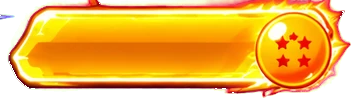
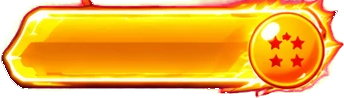
Main menu pieces: the row bar without the title's flames, the title's tail faded, menu_art.py kept with the port's tools

diff --git a/port/tools/menu_art.py b/port/tools/menu_art.py
@@ -1,0 +1,123 @@
+"""The main menu's new look (19 Nov 2026, the user's design made with an image AI:
+Super-Characters/menu-design-19Nov/design.webp and its pieces on magenta, pieces.webp 1774 x 887).
+Each piece is cut from the magenta sheet (the magenta made clear, the edges' magenta taken out of their colour); the
+dragon balls are made 1 to 7 stars from the sheet's lit and dim ball (its 4 stars painted over, new stars drawn).
+
+    menu_art.py <out folder>        writes mm2_*.png there and prints each size"""
+import math, os, sys
+import numpy as np
+from PIL import Image, ImageDraw, ImageFilter
+
+HERE = os.path.dirname(os.path.abspath(__file__))
+SHEET = os.path.join(HERE, "..", "menu-design-19Nov", "pieces.webp")
+OUT = sys.argv[1]
+os.makedirs(OUT, exist_ok=True)
+A = np.asarray(Image.open(SHEET).convert("RGB")).astype(float)
+MAG = np.array([255.0, 0.0, 255.0])
+
+
+def save(name, im):
+    im.save(os.path.join(OUT, name + ".png"))
+    print("%-18s %4d x %4d" % (name, im.width, im.height))
+
+
+def main_part(im):
+    """Only the piece the box's middle belongs to (a neighbour's edge or flames caught in the box left out)."""
+    from PIL import ImageDraw as D
+    m = im.getchannel("A").point(lambda v: 255 if v > 40 else 0)
+    D.floodfill(m, (m.width // 2, m.height // 2), 128)
+    keep = m.point(lambda v: 255 if v == 128 else 0).filter(ImageFilter.MaxFilter(5))
+    a = np.minimum(np.asarray(im.getchannel("A")), np.asarray(keep))
+    out = im.copy()
+    out.putalpha(Image.fromarray(a.astype(np.uint8)))
+    bb = out.getchannel("A").point(lambda v: 255 if v > 10 else 0).getbbox()
+    return out.crop(bb)
+
+
+def cut(box, pad=4):
+    x0, y0, x1, y1 = box
+    x0, y0, x1, y1 = max(0, x0 - pad), max(0, y0 - pad), min(A.shape[1], x1 + pad), min(A.shape[0], y1 + pad)
+    c = A[y0:y1, x0:x1]
+    dist = np.abs(c[..., 0] - 255) + c[..., 1] + np.abs(c[..., 2] - 255)
+    a = np.clip((dist - 70) / 150, 0, 1)
+    rgb = (c - (1 - a)[..., None] * MAG) / np.maximum(a, 0.05)[..., None]  # the magenta taken out of the edges
+    rgb = np.clip(rgb, 0, 255)
+    edge = np.asarray(Image.fromarray(((a < 0.95) * 255).astype(np.uint8)).filter(ImageFilter.MaxFilter(9))) > 0
+    tint = np.minimum(rgb[..., 0], rgb[..., 2]) - rgb[..., 1]  # (magenta: red and blue over green)
+    over = np.clip(tint - 18, 0, None) * edge
+    rgb[..., 0] -= over
+    rgb[..., 2] -= over
+    a = np.where(edge & (tint > 70) & (rgb.max(2) < 140), 0, a)  # (dark purple left of the magenta behind)
+    out = np.dstack([np.clip(rgb, 0, 255), a * 255]).astype(np.uint8)
+    im = Image.fromarray(out, "RGBA")
+    bb = im.getchannel("A").point(lambda v: 255 if v > 10 else 0).getbbox()
+    return im.crop(bb) if bb else im
+
+
+PIECES = {
+    "title": (2, 78, 628, 286), "bar": (642, 114, 962, 190), "bar_sel": (622, 192, 968, 290),
+    "up": (60, 318, 194, 404), "down": (284, 326, 418, 414), "desc": (6, 472, 534, 590), "frame": (536, 492, 776, 594),
+    "i_shenron": (784, 446, 958, 626), "i_book": (30, 638, 208, 796), "i_swords": (270, 638, 440, 798),
+    "i_globe": (508, 632, 684, 802), "i_vs": (744, 634, 954, 812), "i_wifi": (1004, 106, 1174, 244),
+    "i_data": (1220, 104, 1330, 238), "i_gear": (1384, 100, 1540, 254), "k_enter": (1578, 118, 1756, 232),
+    "k_esc": (1006, 338, 1168, 448), "k_x": (1214, 324, 1352, 462), "k_o": (1398, 324, 1536, 462), "cloud": (1570, 338, 1758, 458),
+}
+for name, box in PIECES.items():
+    im = cut(box)
+    if name == "bar":  # (the title's flames touch the blue bar on the sheet: its warm pixels are theirs)
+        px = np.asarray(im).astype(int)
+        warm = (px[..., 0] > px[..., 2] + 30) & (px[..., 0] > 110)
+        px[..., 3] = np.where(warm, 0, px[..., 3])
+        im = Image.fromarray(px.astype(np.uint8), "RGBA")
+    if name in ("bar", "bar_sel", "frame", "desc"):
+        im = main_part(im)
+    if name == "title":  # (its flames' tail, cut at the box's right edge, fades out instead)
+        px = np.asarray(im).astype(float)
+        ramp = np.clip((im.width - 1 - np.arange(im.width)) / 70.0, 0, 1)
+        px[..., 3] *= ramp[None, :]
+        im = Image.fromarray(px.astype(np.uint8), "RGBA")
+    save("mm2_" + name, im)
+
+# --- the seven dragon balls, lit and dim: the sheet's stars painted over, 1..7 stars drawn
+STARS = {1: [(0, 0)], 2: [(-0.22, 0), (0.22, 0)], 3: [(0, -0.2), (-0.21, 0.15), (0.21, 0.15)],
+         4: [(-0.2, -0.18), (0.2, -0.18), (-0.2, 0.2), (0.2, 0.2)], 5: [(0, -0.25), (-0.24, -0.04), (0.24, -0.04), (-0.15, 0.24), (0.15, 0.24)],
+         6: [(-0.2, -0.24), (0.2, -0.24), (-0.28, 0.02), (0.28, 0.02), (-0.13, 0.26), (0.13, 0.26)],
+         7: [(0, 0), (0, -0.28), (-0.25, -0.13), (0.25, -0.13), (-0.25, 0.15), (0.25, 0.15), (0, 0.29)]}
+
+
+def star(d, cx, cy, r, fill):
+    pts = []
+    for k in range(10):
+        ang = -math.pi / 2 + k * math.pi / 5
+        rr = r if k % 2 == 0 else r * 0.42
+        pts.append((cx + rr * math.cos(ang), cy + rr * math.sin(ang)))
+    d.polygon(pts, fill=fill)
+
+
+for kind in ("lit", "dim"):
+    R = 64 * 4
+    W = R * 2 + 16
+    for n in range(1, 8):
+        b = Image.new("RGBA", (W, W), (0, 0, 0, 0))
+        g = np.zeros((W, W, 4))
+        yy, xx = np.mgrid[0:W, 0:W].astype(float)
+        cx = cy = W / 2
+        rr = np.hypot(xx - cx, yy - cy) / R
+        lx, ly = (xx - (cx - R * 0.35)) / R, (yy - (cy - R * 0.4)) / R
+        light = np.clip(1 - np.hypot(lx, ly) * 0.75, 0, 1)
+        if kind == "lit":
+            c0, c1 = np.array([255, 236, 120]), np.array([235, 110, 10])
+        else:
+            c0, c1 = np.array([190, 170, 140]), np.array([90, 70, 55])
+        col = c1[None, None, :] * (1 - light[..., None]) + c0[None, None, :] * light[..., None]
+        g[..., :3] = col
+        g[..., 3] = np.clip((1 - rr) * R * 0.6, 0, 1) * 255
+        ball = Image.fromarray(g.astype(np.uint8), "RGBA")
+        d = ImageDraw.Draw(ball)
+        d.ellipse((cx - R, cy - R, cx + R, cy + R), outline=(110, 50, 0, 255) if kind == "lit" else (60, 45, 35, 255), width=10)
+        for sx, sy in STARS[n]:
+            star(d, cx + sx * R * 1.85, cy + sy * R * 1.85, R * (0.21 if n < 6 else 0.18), (215, 30, 20, 255) if kind == "lit" else (125, 55, 45, 255))
+        hl = Image.new("RGBA", (W, W), (0, 0, 0, 0))
+        ImageDraw.Draw(hl).ellipse((cx - R * 0.62, cy - R * 0.78, cx - R * 0.05, cy - R * 0.38), fill=(255, 255, 255, 150 if kind == "lit" else 70))
+        ball = Image.alpha_composite(ball, hl.filter(ImageFilter.GaussianBlur(R * 0.06)))
+        save("mm2_ball_%s_%d" % (kind, n), ball.resize((W // 4, W // 4), Image.LANCZOS))

diff --git a/include/menu/tbo_sizes.h b/include/menu/tbo_sizes.h
@@ -94,12 +94,12 @@ static const u16 sTboSize[TBO_ART_COUNT][3] = {
     {125, 125, 0}, /* mm_pip */
     {124, 124, 0}, /* mm_pip_off */
     {1376, 768, 0}, /* mm_bg_dusk */
-    {642, 198, 0}, /* mm2_title */
-    {320, 84, 44}, /* mm2_bar */
-    {351, 98, 96}, /* mm2_bar_sel */
+    {630, 188, 0}, /* mm2_title */
+    {320, 71, 44}, /* mm2_bar */
+    {344, 98, 96}, /* mm2_bar_sel */
     {136, 87, 0}, /* mm2_up */
     {134, 86, 0}, /* mm2_down */
-    {244, 104, 64}, /* mm2_frame */
+    {241, 104, 64}, /* mm2_frame */
     {189, 122, 0}, /* mm2_cloud */
     {174, 182, 0}, /* mm2_i_shenron */
     {177, 160, 0}, /* mm2_i_book */
